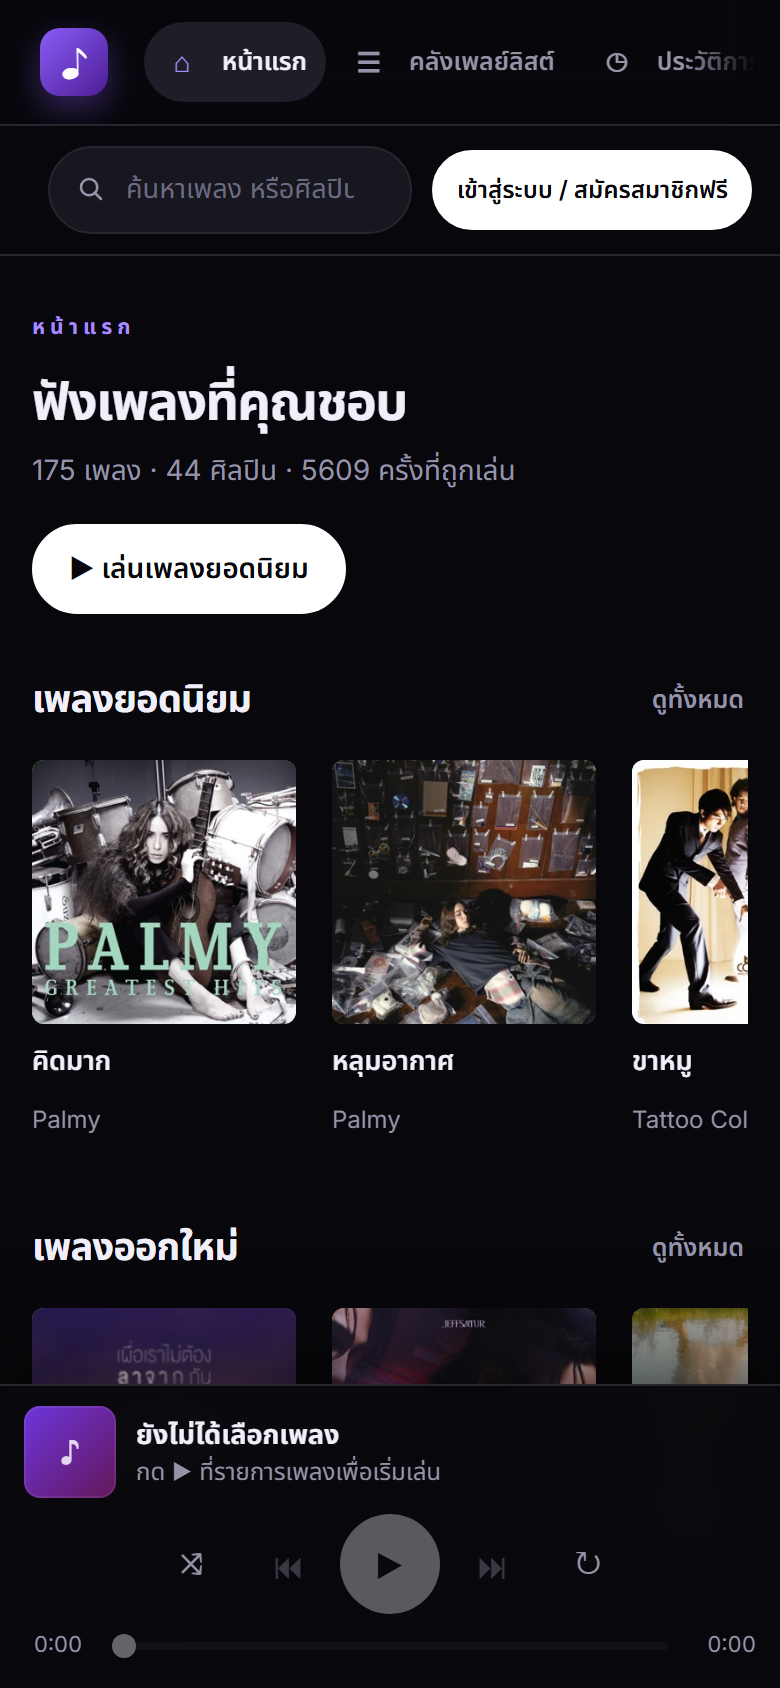
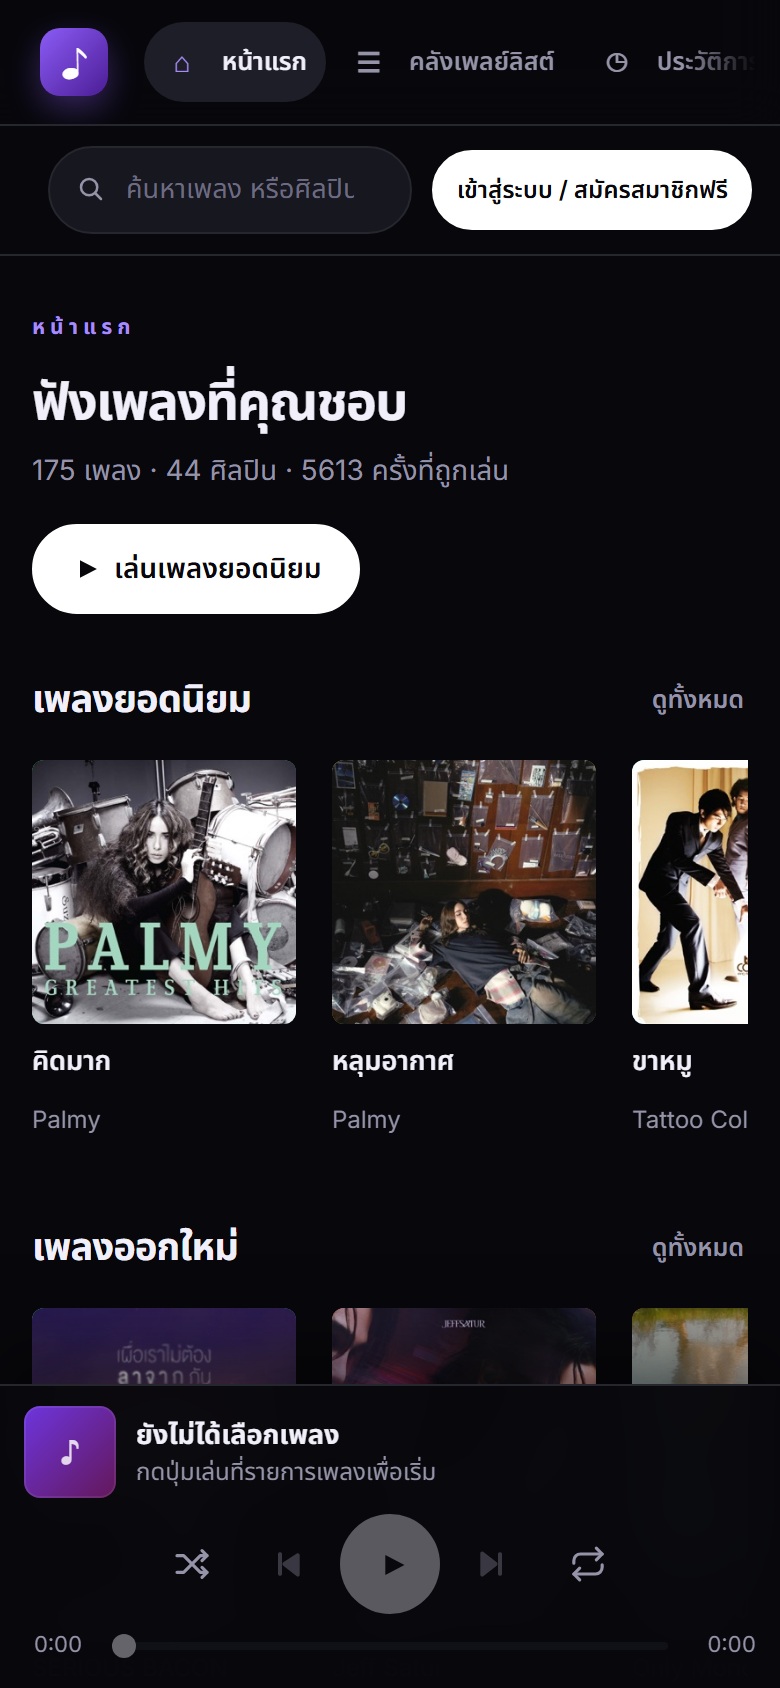
style: replace player control glyphs with SVG (iOS rendered them as blue emoji)

diff --git a/app/templates/base.html b/app/templates/base.html
@@ -99,18 +99,46 @@
     </button>
     <div class="np-meta">
       <div class="np-title" id="np-title">ยังไม่ได้เลือกเพลง</div>
-      <div class="np-artist" id="np-artist">กด ▶ ที่รายการเพลงเพื่อเริ่มเล่น</div>
+      <div class="np-artist" id="np-artist">กดปุ่มเล่นที่รายการเพลงเพื่อเริ่ม</div>
       <span class="np-tag" id="np-tag" hidden>พรีวิว 30 วิ</span>
     </div>
   </div>
 
   <div class="center">
     <div class="controls">
-      <button type="button" class="ctl" id="btn-shuffle" title="สุ่มเพลง">⤨</button>
-      <button type="button" class="ctl" id="btn-prev" title="ก่อนหน้า" disabled>⏮</button>
-      <button type="button" class="ctl ctl-play" id="btn-play" title="เล่น/หยุด" disabled>▶</button>
-      <button type="button" class="ctl" id="btn-next" title="ถัดไป" disabled>⏭</button>
-      <button type="button" class="ctl" id="btn-repeat" title="เล่นซ้ำ">↻</button>
+      <button type="button" class="ctl" id="btn-shuffle" title="สุ่มเพลง">
+        <svg viewBox="0 0 24 24" fill="none" stroke="currentColor" stroke-width="1.9"
+             stroke-linecap="round" stroke-linejoin="round" aria-hidden="true">
+          <path d="M3 7h4l10 10h4"/><path d="M3 17h4l10-10h4"/>
+          <path d="M18 4l3 3-3 3"/><path d="M18 14l3 3-3 3"/>
+        </svg>
+      </button>
+      <button type="button" class="ctl" id="btn-prev" title="ก่อนหน้า" disabled>
+        <svg viewBox="0 0 24 24" fill="currentColor" aria-hidden="true">
+          <rect x="6" y="5" width="2.4" height="14" rx="1"/>
+          <path d="M19 5.6v12.8c0 .9-1 1.4-1.7.9L9.2 13c-.7-.5-.7-1.5 0-2l8.1-5.3c.7-.5 1.7 0 1.7.9z"/>
+        </svg>
+      </button>
+      <button type="button" class="ctl ctl-play" id="btn-play" title="เล่น/หยุด" disabled>
+        <svg viewBox="0 0 24 24" fill="currentColor" aria-hidden="true">
+          <polygon points="8,5 21.5,12 8,19"/>
+        </svg>
+      </button>
+      <button type="button" class="ctl" id="btn-next" title="ถัดไป" disabled>
+        <svg viewBox="0 0 24 24" fill="currentColor" aria-hidden="true">
+          <path d="M5 5.6v12.8c0 .9 1 1.4 1.7.9L14.8 13c.7-.5.7-1.5 0-2L6.7 4.7c-.7-.5-1.7 0-1.7.9z"/>
+          <rect x="15.6" y="5" width="2.4" height="14" rx="1"/>
+        </svg>
+      </button>
+      <button type="button" class="ctl" id="btn-repeat" title="เล่นซ้ำ">
+        <svg viewBox="0 0 24 24" fill="none" stroke="currentColor" stroke-width="1.9"
+             stroke-linecap="round" stroke-linejoin="round" aria-hidden="true">
+          <path d="M17 2.5l3.5 3.5-3.5 3.5"/>
+          <path d="M3.5 11.5V10a4 4 0 0 1 4-4h13"/>
+          <path d="M7 21.5L3.5 18 7 14.5"/>
+          <path d="M20.5 12.5V14a4 4 0 0 1-4 4h-13"/>
+        </svg>
+      </button>
     </div>
     <div class="progress">
       <span class="time" id="cur">0:00</span>
@@ -122,7 +150,7 @@
   <div class="right">
     <span id="np-plays" class="playbadge"></span>
     <button type="button" class="ctl" id="btn-expand" title="ขยายหน้าจอเพลง">⤢</button>
-    <span class="vol-ico">🔊</span>
+    <span class="vol-ico" aria-hidden="true"><svg viewBox="0 0 24 24" fill="none" stroke="currentColor" stroke-width="1.8" stroke-linecap="round" aria-hidden="true"><path d="M4 9.5v5h3.5L13 19V5L7.5 9.5H4z" fill="currentColor" stroke="none"/><path d="M16.6 8.8a4.6 4.6 0 0 1 0 6.4"/><path d="M19.3 6.2a8.2 8.2 0 0 1 0 11.6"/></svg></span>
     <input type="range" id="vol" min="0" max="1" step="0.01" value="0.8" title="ระดับเสียง">
   </div>
 
@@ -136,8 +164,8 @@
   <div class="np-full-top">
     <a class="np-full-link" id="npf-song-link" href="#">เปิดหน้าเพลง</a>
     <button type="button" class="np-full-tab" id="npf-credits-btn">เครดิต</button>
-    <button type="button" class="np-full-icon" id="npf-fullscreen" title="เต็มหน้าจอ">⛶</button>
-    <button type="button" class="np-full-icon" id="npf-minimize" title="ย่อกลับ">⌄</button>
+    <button type="button" class="np-full-icon" id="npf-fullscreen" title="เต็มหน้าจอ"><svg viewBox="0 0 24 24" fill="none" stroke="currentColor" stroke-width="1.9" stroke-linecap="round" stroke-linejoin="round" aria-hidden="true"><path d="M4 9V5.5A1.5 1.5 0 0 1 5.5 4H9"/><path d="M20 9V5.5A1.5 1.5 0 0 0 18.5 4H15"/><path d="M4 15v3.5A1.5 1.5 0 0 0 5.5 20H9"/><path d="M20 15v3.5a1.5 1.5 0 0 1-1.5 1.5H15"/></svg></button>
+    <button type="button" class="np-full-icon" id="npf-minimize" title="ย่อกลับ"><svg viewBox="0 0 24 24" fill="none" stroke="currentColor" stroke-width="2" stroke-linecap="round" stroke-linejoin="round" aria-hidden="true"><path d="M6 9.5l6 6 6-6"/></svg></button>
   </div>
 
   <div class="np-full-stage">
@@ -167,17 +195,45 @@
 
     <div class="np-full-center">
       <div class="controls">
-        <button type="button" class="ctl" id="npf-shuffle" title="สุ่มเพลง">⤨</button>
-        <button type="button" class="ctl" id="npf-prev" title="ก่อนหน้า">⏮</button>
-        <button type="button" class="ctl ctl-play big" id="npf-play" title="เล่น/หยุด">▶</button>
-        <button type="button" class="ctl" id="npf-next" title="ถัดไป">⏭</button>
-        <button type="button" class="ctl" id="npf-repeat" title="เล่นซ้ำ">↻</button>
+        <button type="button" class="ctl" id="npf-shuffle" title="สุ่มเพลง">
+          <svg viewBox="0 0 24 24" fill="none" stroke="currentColor" stroke-width="1.9"
+               stroke-linecap="round" stroke-linejoin="round" aria-hidden="true">
+            <path d="M3 7h4l10 10h4"/><path d="M3 17h4l10-10h4"/>
+            <path d="M18 4l3 3-3 3"/><path d="M18 14l3 3-3 3"/>
+          </svg>
+        </button>
+        <button type="button" class="ctl" id="npf-prev" title="ก่อนหน้า">
+          <svg viewBox="0 0 24 24" fill="currentColor" aria-hidden="true">
+            <rect x="6" y="5" width="2.4" height="14" rx="1"/>
+            <path d="M19 5.6v12.8c0 .9-1 1.4-1.7.9L9.2 13c-.7-.5-.7-1.5 0-2l8.1-5.3c.7-.5 1.7 0 1.7.9z"/>
+          </svg>
+        </button>
+        <button type="button" class="ctl ctl-play big" id="npf-play" title="เล่น/หยุด">
+          <svg viewBox="0 0 24 24" fill="currentColor" aria-hidden="true">
+            <polygon points="8,5 21.5,12 8,19"/>
+          </svg>
+        </button>
+        <button type="button" class="ctl" id="npf-next" title="ถัดไป">
+          <svg viewBox="0 0 24 24" fill="currentColor" aria-hidden="true">
+            <path d="M5 5.6v12.8c0 .9 1 1.4 1.7.9L14.8 13c.7-.5.7-1.5 0-2L6.7 4.7c-.7-.5-1.7 0-1.7.9z"/>
+            <rect x="15.6" y="5" width="2.4" height="14" rx="1"/>
+          </svg>
+        </button>
+        <button type="button" class="ctl" id="npf-repeat" title="เล่นซ้ำ">
+          <svg viewBox="0 0 24 24" fill="none" stroke="currentColor" stroke-width="1.9"
+               stroke-linecap="round" stroke-linejoin="round" aria-hidden="true">
+            <path d="M17 2.5l3.5 3.5-3.5 3.5"/>
+            <path d="M3.5 11.5V10a4 4 0 0 1 4-4h13"/>
+            <path d="M7 21.5L3.5 18 7 14.5"/>
+            <path d="M20.5 12.5V14a4 4 0 0 1-4 4h-13"/>
+          </svg>
+        </button>
       </div>
     </div>
 
     <div class="np-full-right">
-      <button type="button" class="np-full-icon" id="npf-queue-btn" title="คิวเพลง">☰</button>
-      <span class="vol-ico">🔊</span>
+      <button type="button" class="np-full-icon" id="npf-queue-btn" title="คิวเพลง"><svg viewBox="0 0 24 24" fill="none" stroke="currentColor" stroke-width="2" stroke-linecap="round" aria-hidden="true"><path d="M4 7h16"/><path d="M4 12h16"/><path d="M4 17h16"/></svg></button>
+      <span class="vol-ico" aria-hidden="true"><svg viewBox="0 0 24 24" fill="none" stroke="currentColor" stroke-width="1.8" stroke-linecap="round" aria-hidden="true"><path d="M4 9.5v5h3.5L13 19V5L7.5 9.5H4z" fill="currentColor" stroke="none"/><path d="M16.6 8.8a4.6 4.6 0 0 1 0 6.4"/><path d="M19.3 6.2a8.2 8.2 0 0 1 0 11.6"/></svg></span>
       <input type="range" id="npf-vol" min="0" max="1" step="0.01" value="0.8" title="ระดับเสียง">
       <span class="np-full-pill" id="npf-pill" hidden>พรีวิว 30 วิ</span>
     </div>

diff --git a/app/static/js/player.js b/app/static/js/player.js
@@ -121,6 +121,12 @@
   const PAUSE_SVG = '<span class="ico ico-pause" aria-hidden="true"><svg viewBox="0 0 24 24">'
     + '<rect x="7" y="4.5" width="3.8" height="15" rx="1.3"/>'
     + '<rect x="13.2" y="4.5" width="3.8" height="15" rx="1.3"/></svg></span>';
+  const ICON_PLAY = '<svg viewBox="0 0 24 24" fill="currentColor" aria-hidden="true">'
+    + '<polygon points="8,5 21.5,12 8,19"/></svg>';
+  const ICON_PAUSE = '<svg viewBox="0 0 24 24" fill="currentColor" aria-hidden="true">'
+    + '<rect x="7" y="5" width="4" height="14" rx="1.4"/>'
+    + '<rect x="13.5" y="5" width="4" height="14" rx="1.4"/></svg>';
+
   const EQ_ICON = '<span class="eq" aria-hidden="true"><i></i><i></i><i></i><i></i></span>';
 
   function decoratePlayButtons() {
@@ -335,8 +341,9 @@
     repeatMode = repeatMode === 'off' ? 'all' : repeatMode === 'all' ? 'one' : 'off';
     setActive(mini.repeat, repeatMode !== 'off');
     setActive(full.repeat, repeatMode !== 'off');
-    if (mini.repeat) mini.repeat.textContent = repeatMode === 'one' ? '↻1' : '↻';
-    if (full.repeat) full.repeat.textContent = repeatMode === 'one' ? '↻1' : '↻';
+    [mini.repeat, full.repeat].forEach(function (btn) {
+      if (btn) btn.dataset.mode = repeatMode;
+    });
     toast(repeatMode === 'off' ? 'เล่นซ้ำ: ปิด'
         : repeatMode === 'all' ? 'เล่นซ้ำ: ทั้งอัลบั้ม/ทั้งคิว' : 'เล่นซ้ำ: เพลงนี้เพลงเดียว');
   }
@@ -480,14 +487,14 @@
   });
 
   audio.addEventListener('play', function () {
-    if (mini.play) mini.play.textContent = '⏸';
-    if (full.play) full.play.textContent = '⏸';
+    if (mini.play) mini.play.innerHTML = ICON_PAUSE;
+    if (full.play) full.play.innerHTML = ICON_PAUSE;
     setRowPlayState(true);
   });
 
   audio.addEventListener('pause', function () {
-    if (mini.play) mini.play.textContent = '▶';
-    if (full.play) full.play.textContent = '▶';
+    if (mini.play) mini.play.innerHTML = ICON_PLAY;
+    if (full.play) full.play.innerHTML = ICON_PLAY;
     setRowPlayState(false);
   });
 
@@ -503,8 +510,8 @@
     } else if (idx >= 0 && repeatMode === 'all') {
       playAt(idx);
     } else {
-      if (mini.play) mini.play.textContent = '▶';
-      if (full.play) full.play.textContent = '▶';
+      if (mini.play) mini.play.innerHTML = ICON_PLAY;
+      if (full.play) full.play.innerHTML = ICON_PLAY;
     }
   });
 

diff --git a/app/static/css/style.css b/app/static/css/style.css
@@ -1720,3 +1720,32 @@ body.np-open { overflow: hidden; }
   .auth-split { display: none; }
   .auth-combined { display: inline-flex; }
 }
+
+
+/* =====================================================================
+   Player control icons: inline SVG (iOS renders the old Unicode glyphs
+   as blue emoji squares, so every control is an SVG now)
+   ===================================================================== */
+.ctl { position: relative; }
+.ctl svg { width: 20px; height: 20px; display: block; }
+.ctl-play svg { width: 17px; height: 17px; }
+.ctl-play.big svg { width: 21px; height: 21px; }
+.vol-ico { display: inline-grid; place-items: center; }
+.vol-ico svg { width: 18px; height: 18px; display: block; }
+
+/* repeat = one: small 1 badge in the corner */
+.ctl[data-mode="one"]::after {
+  content: "1";
+  position: absolute;
+  right: 3px;
+  bottom: 2px;
+  font-size: 9px;
+  font-weight: 800;
+  line-height: 1;
+  color: var(--accent-2);
+}
+
+
+/* icons inside the now-playing top bar and round buttons */
+.np-full-icon svg { width: 20px; height: 20px; display: block; }
+.btn svg { flex: none; }

diff --git a/app/templates/index.html b/app/templates/index.html
@@ -47,7 +47,7 @@
     {% if stats %}{{ stats.Songs }} เพลง · {{ stats.Artists }} ศิลปิน · {{ stats.Plays }} ครั้งที่ถูกเล่น{% endif %}
   </p>
   <div class="page-hero-actions">
-    <button type="button" class="btn btn-light" data-play-list="#rail-top">▶ เล่นเพลงยอดนิยม</button>
+    <button type="button" class="btn btn-light" data-play-list="#rail-top"><svg viewBox="0 0 24 24" fill="currentColor" aria-hidden="true" style="width:15px;height:15px"><polygon points="8,5 21.5,12 8,19"/></svg> เล่นเพลงยอดนิยม</button>
   </div>
 </header>
 

diff --git a/app/static/css/mobile.css b/app/static/css/mobile.css
@@ -96,7 +96,7 @@
   .tracks { min-width: 0; }
 
   /* --- toast sits above the player --- */
-  .toast { bottom: 132px; }
+  .toast { bottom: 170px; }
 
   /* specificity fix: .btn-sm is declared later, so re-assert the pill size */
   .topbar .auth-combined { min-height: 40px; }
